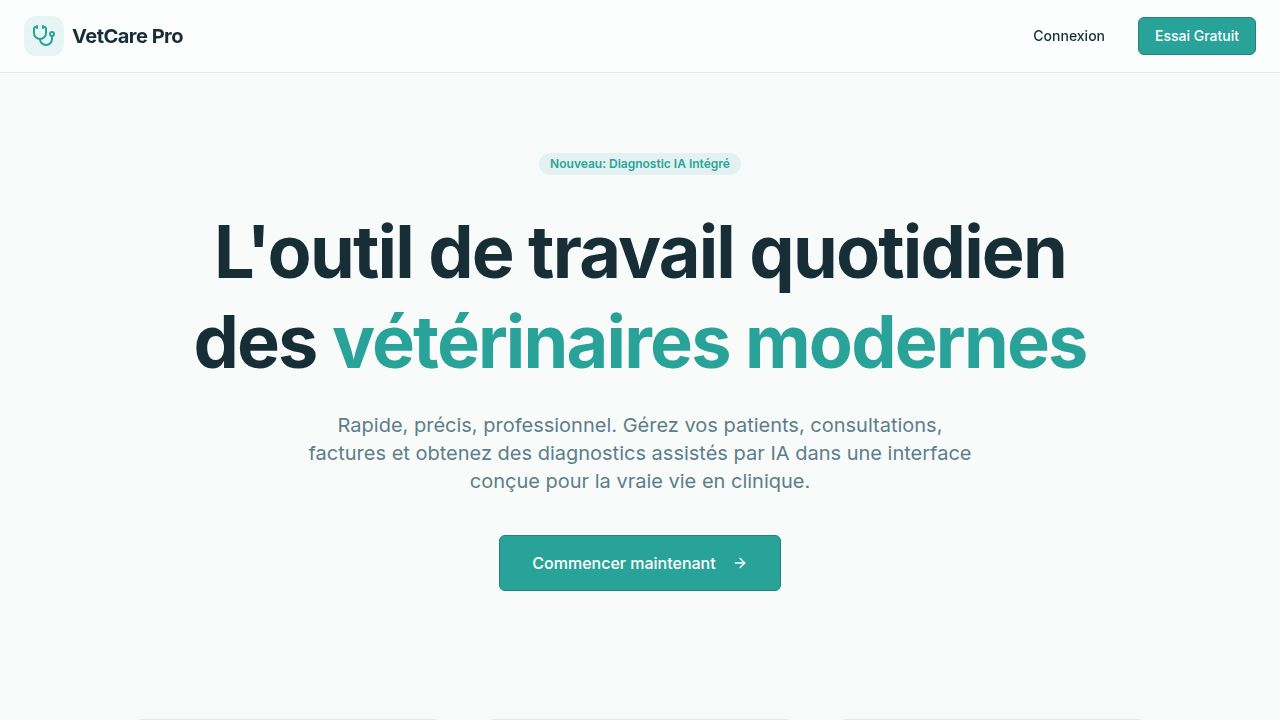
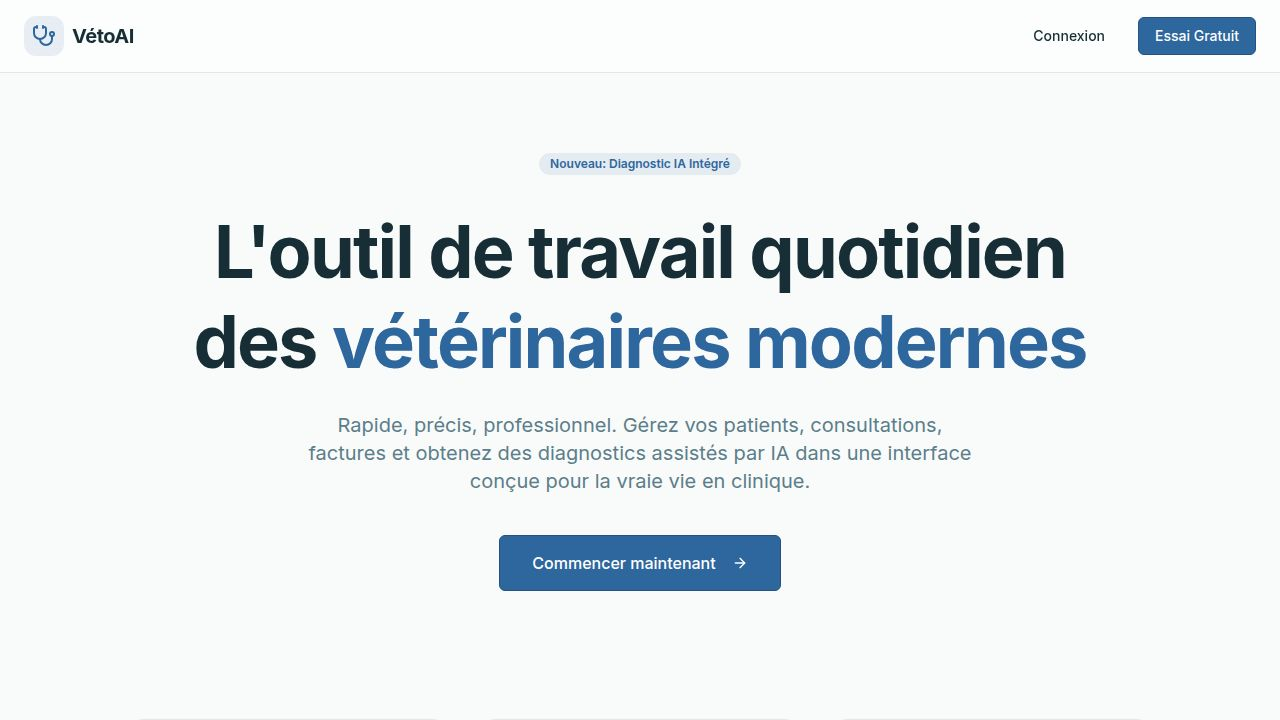
Update application configuration for deployment and rebranding
Adjust build configurations in artifact.toml and vite.config.ts to correctly handle production builds and environment variables, and update the application title.

Replit-Commit-Author: Agent
Replit-Commit-Session-Id: 8f06d867-c916-4f60-853e-5460423ba493
Replit-Commit-Checkpoint-Type: full_checkpoint
Replit-Commit-Event-Id: 57ee7bc2-6255-4c7e-bcae-d0de5d7a29e7
Replit-Commit-Screenshot-Url: https://storage.googleapis.com/screenshot-production-us-central1/4e4c372a-93b2-4c83-801a-c85d67643e60/8f06d867-c916-4f60-853e-5460423ba493/MqJZBWb
Replit-Helium-Checkpoint-Created: true

diff --git a/artifacts/vetcare/vite.config.ts b/artifacts/vetcare/vite.config.ts
@@ -5,26 +5,21 @@ import path from "path";
 import runtimeErrorOverlay from "@replit/vite-plugin-runtime-error-modal";
 
 const rawPort = process.env.PORT;
+const isBuild = process.argv.includes("build");
 
-if (!rawPort) {
+if (!rawPort && !isBuild) {
   throw new Error(
     "PORT environment variable is required but was not provided.",
   );
 }
 
-const port = Number(rawPort);
+const port = Number(rawPort ?? "21313");
 
-if (Number.isNaN(port) || port <= 0) {
+if (!isBuild && (Number.isNaN(port) || port <= 0)) {
   throw new Error(`Invalid PORT value: "${rawPort}"`);
 }
 
-const basePath = process.env.BASE_PATH;
-
-if (!basePath) {
-  throw new Error(
-    "BASE_PATH environment variable is required but was not provided.",
-  );
-}
+const basePath = process.env.BASE_PATH ?? "/";
 
 export default defineConfig({
   base: basePath,
